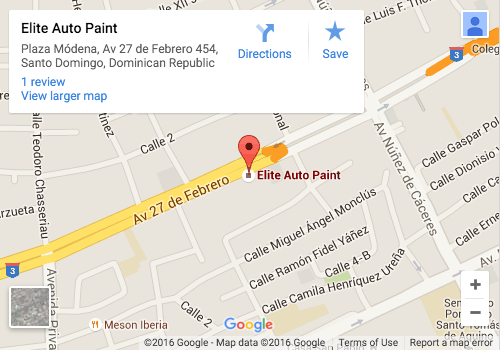
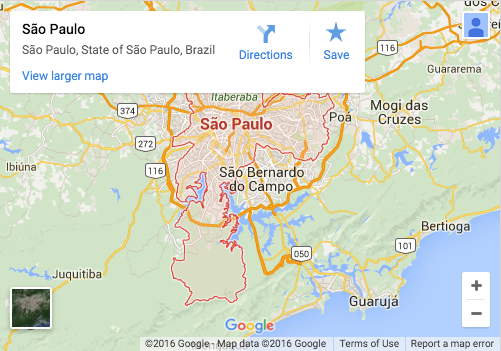
added portugeses map ooo

diff --git a/video/por/videoTest/index.html b/video/por/videoTest/index.html
@@ -117,7 +117,7 @@ independente e confiante para explorar seus sonhos</p>
               <div class="contact_section" id="contact2">
                   <!-- Google Map -->
                   <iframe id="map2" frameborder="0" style="border:0"
-                  src="https://www.google.com/maps/embed/v1/place?q=ave%2027%20de%20febrero%20No.%20454%2C%20plaza%20modena%2C%20Mirador%20Norte%2C%20santo%20domingo&key=AIzaSyDns4OzHtgrIhaELR-le7jLHH8_5vshfrU" allowfullscreen></iframe>
+src="https://www.google.com/maps/embed/v1/place?q=place_id:ChIJ0WGkg4FEzpQRrlsz_whLqZs&key=AIzaSyDns4OzHtgrIhaELR-le7jLHH8_5vshfrU" allowfullscreen></iframe>
                   <form id="contact2" method="POST" action="contact.php">
                     <input type="text" name="name" placeholder="Name" required/>
                     <input type="email" name="email" placeholder="Email" required/>
@@ -190,7 +190,7 @@ Um programa de aprendizagem composta (blended learning), de 12 a 24 meses de dur
           <h3 class="text_head">Contactenos</h3>
               <div class="contact_section" id="contact2">
                   <!-- Google Map Link -->
-                  <a href="https://www.google.com/maps/place/Elite+Auto+Paint/@18.4540768,-69.96091,13.74z/data=!4m2!3m1!1s0x8ea561f7a382a551:0xa29bf8d55dd9565c?hl=en-US" target="_blank"><img id="map" src="images/mini_map.png"/></a>
+                  <a href="https://www.google.com/maps/place/S%C3%A3o+Paulo,+State+of+S%C3%A3o+Paulo,+Brazil/@-23.5809942,-46.7404491,11.03z/data=!4m2!3m1!1s0x94ce448183a461d1:0x9ba94b08ff335bae" target="_blank"><img id="map" src="images/mini_map.png"/></a>
                 
                   <form id="contact" method="POST" action="contact.php">
                     <input class="input" type="text" name="name" placeholder="Nome" required/>
